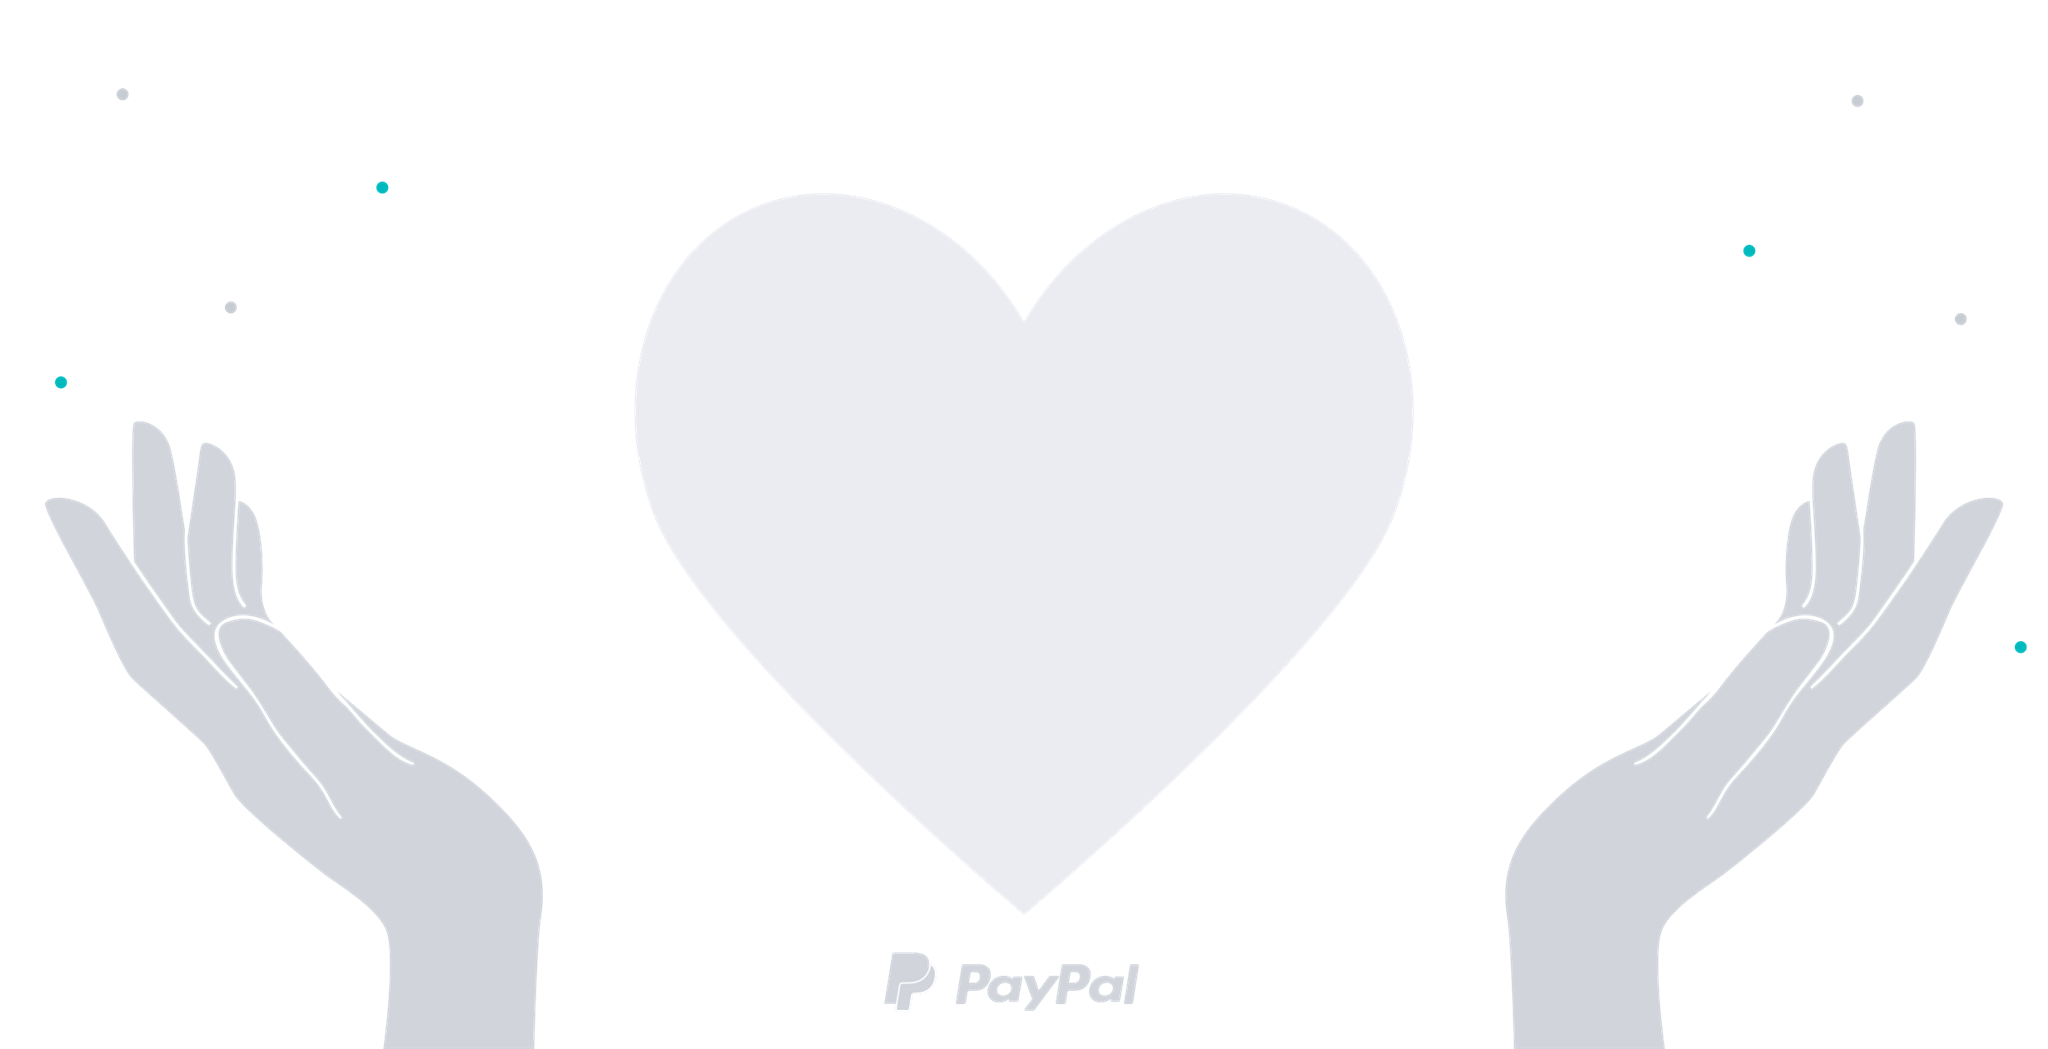
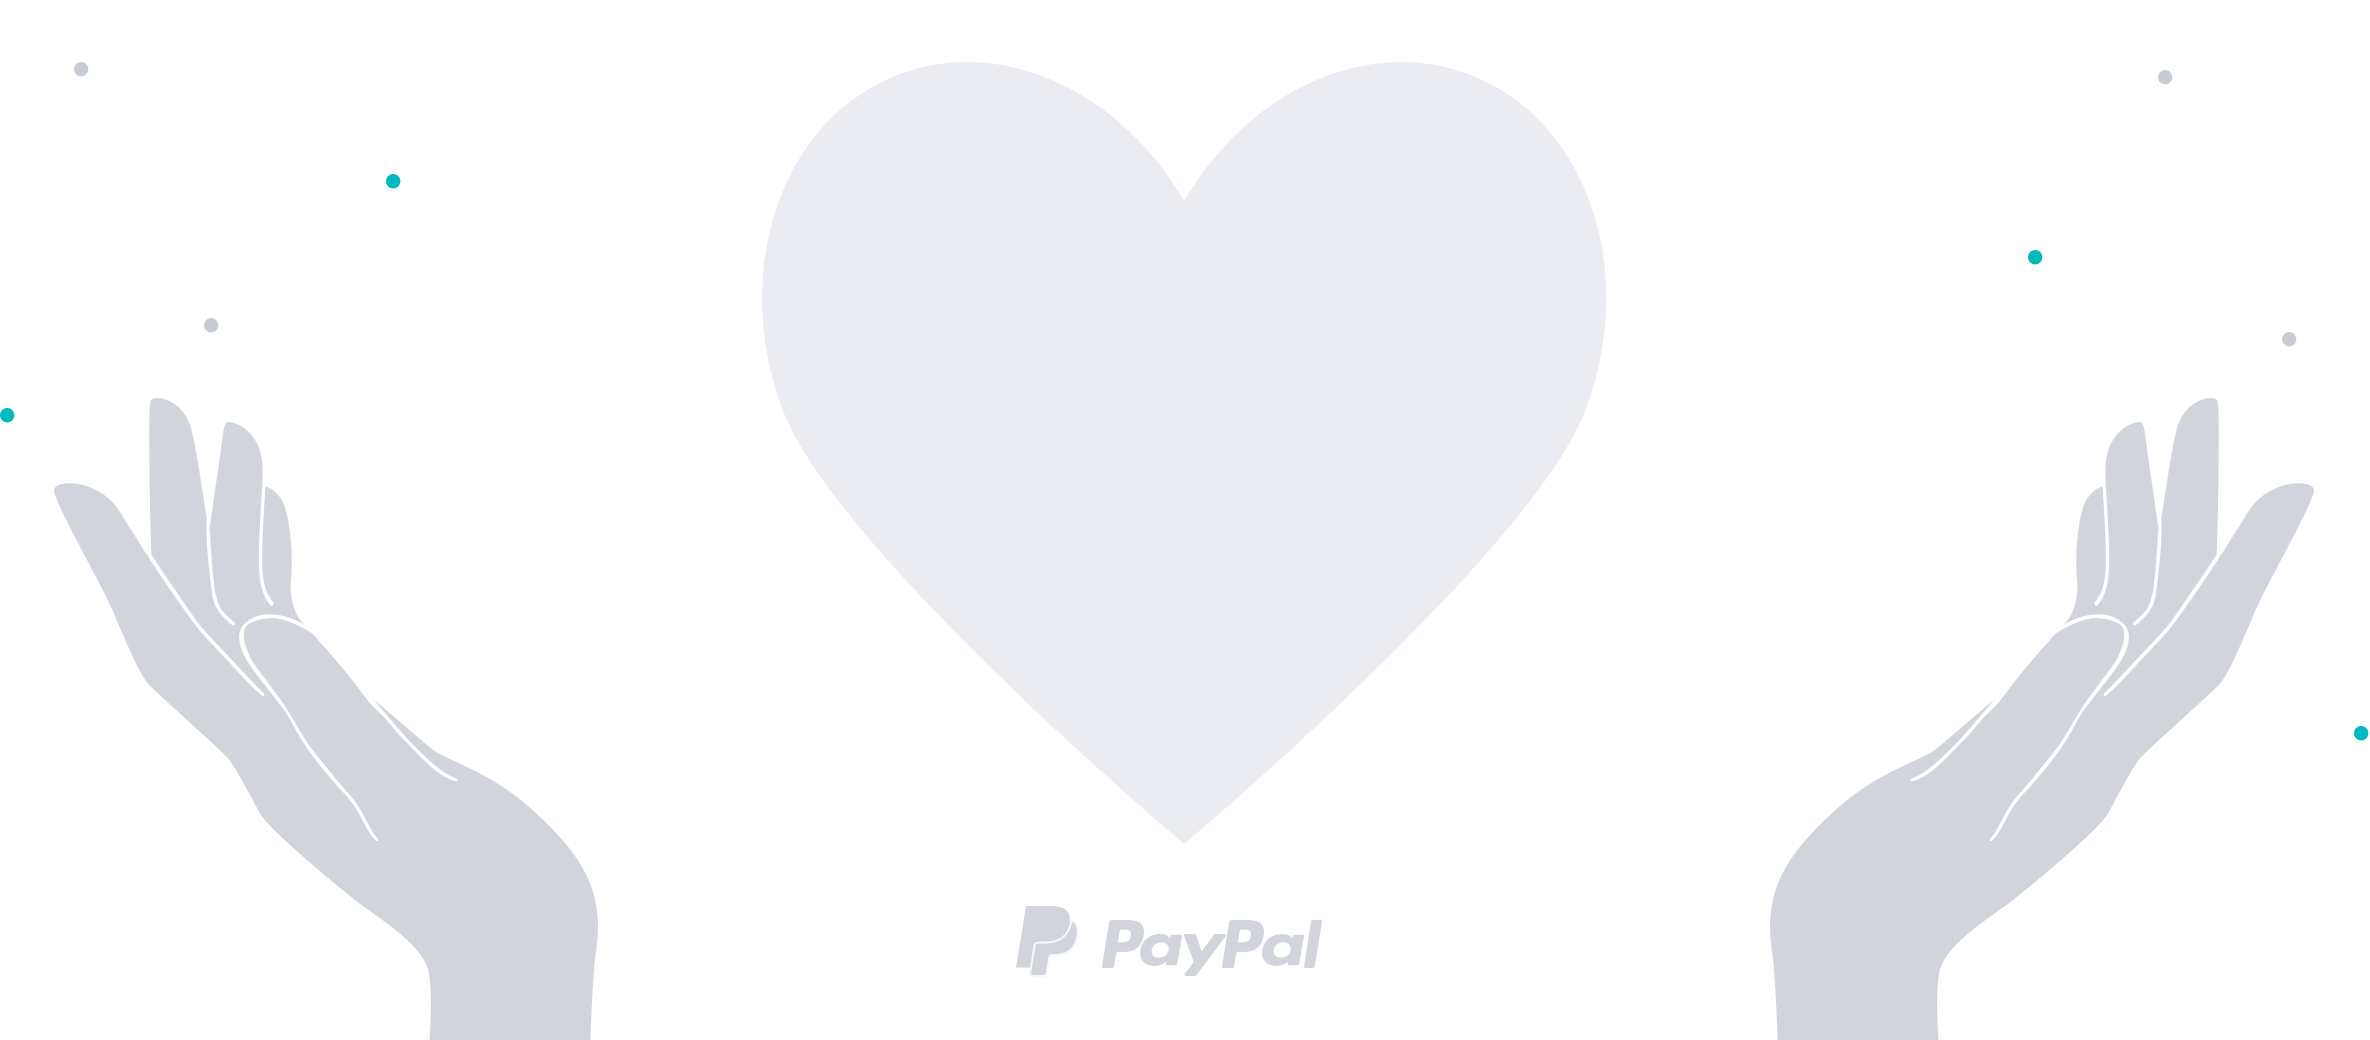
Donate page layout

diff --git a/donatecampaign.html b/donatecampaign.html
@@ -5,35 +5,83 @@ permalink: /donatecampaign/
 ---
 
 <header class="donate-header">
-    <h1>{{ page.title }}</h1>
-
-    <div class="row">
-        <div class="small-4 columns">
+    <div class="row donate-plans">
+        <div class="small-12 large-4 columns">
             <div class="donate-plan">
                 <p class="amount">
                     <span class="dollar">$</span>
                     <span class="number">15</span>
                 </p>
+                <p class="description">
+                    Show that you care about Xpiks.
+                </p>
+                <p>
+                    <a class="button donate-button" href="https://paypal.me/xpiks/15" target="_blanc">Donate</a>
+                </p>
             </div>
         </div>
 
-        <div class="small-4 columns">
+        <div class="small-12 large-4 columns">
             <div class="donate-plan">
-                <img width="33" height="31" class="heart" src="../images/donate/Orange_heart_icon.png" align="left" />
-                
+                <img width="33" height="31" class="heart" src="../images/donate/Orange_heart_icon.png" align="left" />                
                 <p class="amount">
                     <span class="dollar">$</span>
                     <span class="number">25</span>
                 </p>
+                <p class="description">
+                    Show that you use Xpiks. Your name will be in credits on this website.
+                </p>
+                <p>
+                    <a class="button donate-button" href="https://paypal.me/xpiks/25" target="_blanc">Donate</a>
+                </p>
             </div>
         </div>
         
-        <div class="small-4 columns">
+        <div class="small-12 large-4 columns">
             <div class="donate-plan">
                 <p class="amount">
                     <span class="number">$</span>
+                </p>
+                <p class="description">
+                    Any help is highly appreciated! More help is appreciated more!
+                </p>
+                <p>
+                    <a class="button donate-button" href="https://paypal.me/xpiks/" target="_blanc">Donate</a>
                 </p>
             </div>
         </div>
     </div>
 </header>
+<section>
+    <div class="row donate-description">
+        <div class="small-12">
+            <div class="single-post">
+                <div class="post-item">
+                    <p>
+                        <h1>Let's make Xpiks better together</h1>
+                    </p>
+                    <p>Xpiks is a tool of choise of many microstock contributors. It is a first software which works on all major platforms and allows you to keyword and upload your photos, illustrations and videos to microstocks. Xpiks is fast, it has clean interface and it is highly portable. <i>And it is absolutely free.</i></p>
+                    <p>I started development around 4 years ago only for my wife as a replacement for my console scripts she used before. After some time I made an announcement on few forums and other people also started using it. Currently Xpiks has couple of hundreds of daily users.</p>
+                    <p>Despite being free for you, Xpiks requires a lot of resources to be maintained and developed. I'm working on Xpiks literally every day after my full-time job (with the much appreciated little help of a few others).</p>
+                    <p>There're many ways Xpiks can improve. You can find below items which are in my short list of top-rated improvements waiting to be implemented. And this is only a top of the iceberg.
+                        <ul>
+                            <li><span class="feature-title">Integrations</span> - integrations with existing software like Adobe Lightroom, integrations with various microstock websites</li>
+                            <li><span class="feature-title">Plugins</span> - plugins will be next big thing in Xpiks. They will provide various functionality needed for different users like hierarchical keywords, artworks rank tracking and more</li>
+                            <li><span class="feature-title">Submitting</span> - possibility to submit artworks for review after uploading them to microstocks</li>
+                            <li><span class="feature-title">Improved troubleshooting</span> - automatic logs submission, user's feedback tool</li>
+                            <li><span class="feature-title">Smart keywording</span> - automatic keywording with knowledge of microstocks specifics</li>
+                            <li><span class="feature-title">More tutorials</span> - tutorials proven to be a good idea for user's education, we need more of these</li>
+                        </ul></p>
+                    <p>Despite all these interesting tasks there're tons of smaller everyday problems to solve nobody of the users ever thinks about: website upgrade to https, Apple developer account, logs analysis, forever-changing microstock intricacies, hosting upgrade, GDPR compliance etc.</p>
+                    <hr />
+                    <p>Please consider donating not only if you want to see these or other features in Xpiks but also to say "Thank You" if Xpiks saved you time, improved your workflow or saved you some money on non-free tools.</p>
+                    <p>If there will be measurable amount of money collected I will be able to offload some tasks to freelancers in order to work on more important features, pay for the development accounts, upgrade hosting and most importanly, <i>keep Xpiks free for anybody</i>.</p>
+                    <p><strong>Let's make Xpiks better together!</strong></p>
+                    <p>&nbsp;</p>
+                    <p>&nbsp;</p>
+                    <p>P.S. If you don't have a PayPal account you can support Xpiks via Moneybookers/Skrill by sending money to <img height="17" width="191" src="../images/donate/skrillaccount.png" /></p>
+                </div>
+            </div>
+        </div>
+    </div>
+</section>

diff --git a/_sass/modules/_donate.scss b/_sass/modules/_donate.scss
@@ -1,9 +1,19 @@
 .donate-header {
-    background: url('../images/donate/donatehero.png') no-repeat center center;
+    @media screen and (min-width: 64.063em) {
+	background: url('../images/donate/donatehero.png') no-repeat center center;
+        background-size: contain;
+    }
     text-align: center;
     background-color: #F8F8FB;
-    background-size: contain;
-    height: 540px;
+    min-height: 520px;
+    
+    div.donate-plans {
+        max-width: 870px;
+        padding-top: 15px;
+        @media screen and (min-width: 64.063em) {
+	    padding-top: 120px;
+	}
+    }
 
     h1 {
         margin: 2px 0;
@@ -25,9 +35,10 @@
         margin-left: auto;
         margin-right: auto;
         width: 240px;
-        height: 260px;
+        height: 270px;
         text-align: center;
         position: relative;
+        margin-bottom: 15px;
 
         img.heart {
             position: absolute;
@@ -54,6 +65,26 @@
                 color: $blue-accent-color;
             }   
         }
-        
+
+        p.description {
+            margin: 10px 20px 20px 20px;
+            height: 70px;
+        }
+
+        a.donate-button {
+            width: 160px;
+            height: 50px;
+        }
+    }
+}
+
+div.donate-description {
+    h1 {
+        margin-top: 20px;
+        text-align: center;
+    }
+
+    span.feature-title {
+        font-weight: bold;
     }
 }

diff --git a/downloads.html b/downloads.html
@@ -6,7 +6,7 @@ body_class: "page-downloads"
 ---
 
 <header class="page-header">
-    <img class="page-header-logo" src="{{ site.url }}/images/logo-big-shadowed.png" alt="xPiks">
+    <img class="page-header-logo" src="{{ site.url }}/images/logo-big-shadowed.png" alt="Xpiks">
 
     <div class="row">
 	<div class="small-12">
